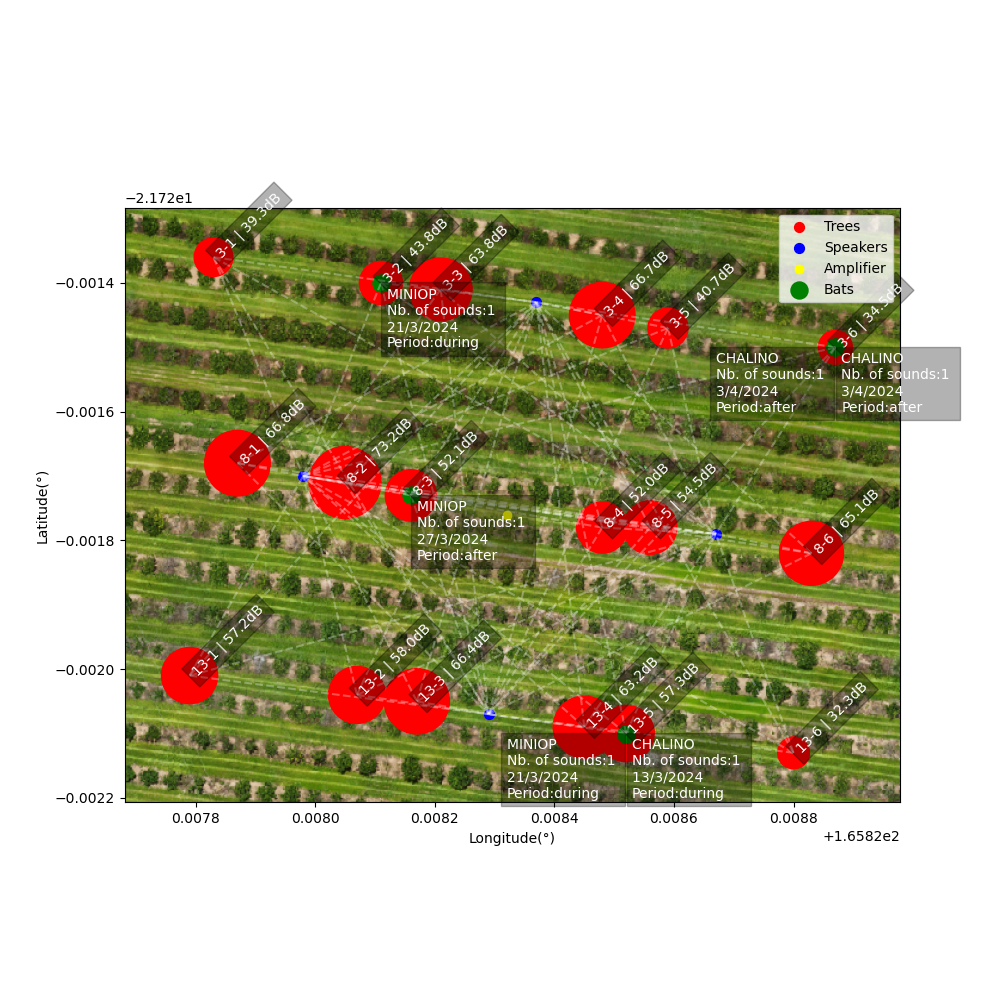
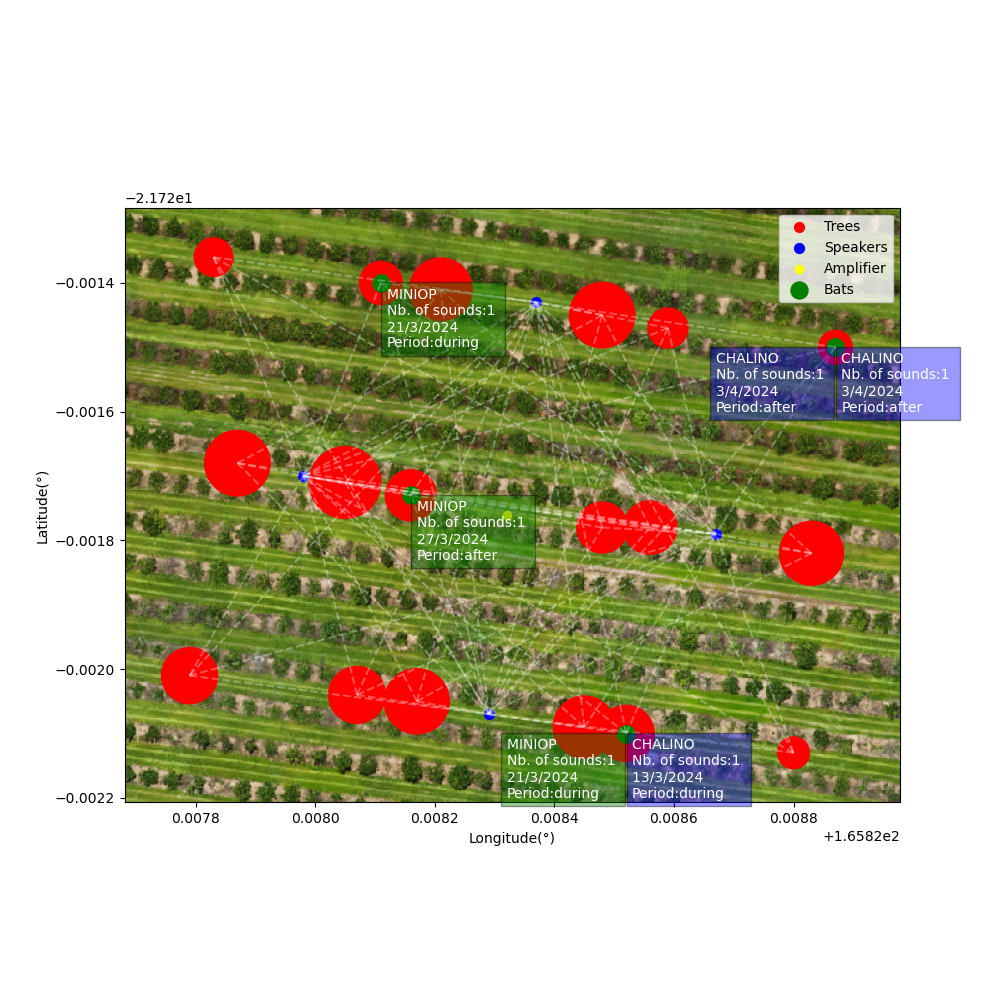
Updated visualizations

diff --git a/data_vis_bats.py b/data_vis_bats.py
@@ -9,6 +9,12 @@ data = pd.read_csv("sound_and_tree_data.csv", delimiter=";")
 
 bats_data = pd.read_csv("bats_t1.csv", delimiter=",")
 
+bats_data["longitude"] = bats_data["LATITUDE"].apply(lambda x: float(x.replace(",", ".").replace("°E", "")))
+bats_data["latitude"] = bats_data["LONGITUDE"].apply(lambda x: float(x.replace(",", ".").replace("°S", ""))*-1)
+bats_data
+bats = gpd.GeoDataFrame(bats_data, geometry=gpd.points_from_xy(bats_data["longitude"], bats_data["latitude"]), crs="EPSG:4326")
+
+
 # Separating longitude and lattitude from the location column
 longitudes = []
 latitudes = []
@@ -197,21 +203,17 @@ for i in range(len(trees)):
 
 # add labels to the trees
 
-for i in range(len(trees)):
-    t = plt.text(
-        trees_wgs84.iloc[i].geometry.x,
-        trees_wgs84.iloc[i].geometry.y,
-        f"{trees.iloc[i].row}-{trees.iloc[i].designation} | {trees.iloc[i].sound_dB}dB",
-        fontsize=10,
-        color="white",rotation=45)
-    t.set_bbox(dict(facecolor="black", alpha=0.3, edgecolor="black"))
+# for i in range(len(trees)):
+#     t = plt.text(
+#         trees_wgs84.iloc[i].geometry.x,
+#         trees_wgs84.iloc[i].geometry.y,
+#         f"{trees.iloc[i].row}-{trees.iloc[i].designation} | {trees.iloc[i].sound_dB}dB",
+#         fontsize=10,
+#         color="white",rotation=45)
+#     t.set_bbox(dict(facecolor="black", alpha=0.3, edgecolor="black"))
 legend = ax.legend()
 legend.legendHandles[0]._sizes = [50]
 
-bats_data["longitude"] = bats_data["LATITUDE"].apply(lambda x: float(x.replace(",", ".").replace("°E", "")))
-bats_data["latitude"] = bats_data["LONGITUDE"].apply(lambda x: float(x.replace(",", ".").replace("°S", ""))*-1)
-bats_data
-bats = gpd.GeoDataFrame(bats_data, geometry=gpd.points_from_xy(bats_data["longitude"], bats_data["latitude"]), crs="EPSG:4326")
 
 # split by period
 bats_during = bats[bats["PERIOD"] == "during"]
@@ -230,8 +232,12 @@ for i in range(len(bats)):
             fontsize=10,
             color="white",rotation=0)
         if bats.iloc[i]["PERIOD"] == "during":
-            t.set_bbox(dict(facecolor="red", alpha=0.3, edgecolor="black"))
-        t.set_bbox(dict(facecolor="black", alpha=0.3, edgecolor="black"))
+            t.set_bbox(dict(facecolor="red", alpha=0.4, edgecolor="black"))
+        if bats.iloc[i]["MANUAL_ID"] == "CHALINO":
+            t.set_bbox(dict(facecolor="blue", alpha=0.4, edgecolor="black"))
+        else:
+            t.set_bbox(dict(facecolor="green", alpha=0.4, edgecolor="black"))
+        # t.set_bbox(dict(facecolor="black", alpha=0.3, edgecolor="black"))
     else:
         
         t = plt.text(
@@ -241,7 +247,10 @@ for i in range(len(bats)):
             fontsize=10,
             color="white",rotation=0)
         recordedpoints.append([bats.iloc[i].geometry.x, bats.iloc[i].geometry.y])  
-        t.set_bbox(dict(facecolor="black", alpha=0.3, edgecolor="black"))
+        if bats.iloc[i]["MANUAL_ID"] == "CHALINO":
+            t.set_bbox(dict(facecolor="blue", alpha=0.4, edgecolor="black"))
+        else:
+            t.set_bbox(dict(facecolor="green", alpha=0.4, edgecolor="black"))
     
 
 
